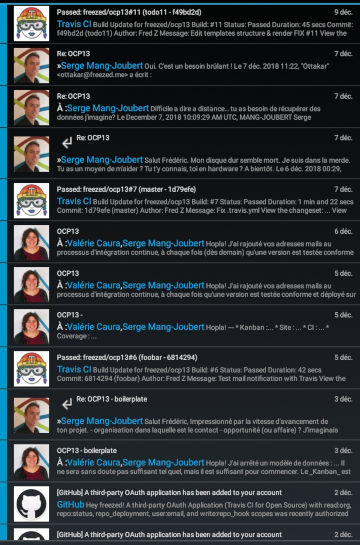
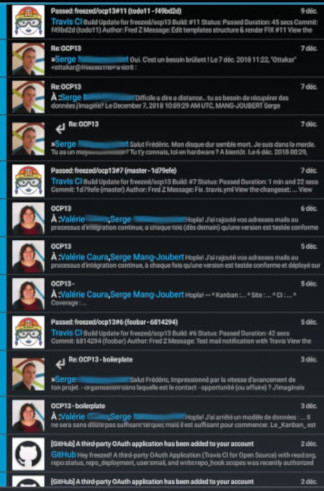
Update PITCHME.md

diff --git a/doc/PITCHME.md b/doc/PITCHME.md
@@ -2,9 +2,17 @@
 
 _ 20 décembre 2018 _
 
-![](/doc/img/django.png)
-![](/doc/img/py.png)
-
+![](/doc/img/coveralls-r.png)
+![](/doc/img/django-r.png)
+![](/doc/img/github-r.png)
+![](/doc/img/heroku-r.png)
+![](/doc/img/knacss-r.png)
+![](/doc/img/openclassrooms-r.png)
+![](/doc/img/papertrail-r.png)
+![](/doc/img/py-r.png)
+![](/doc/img/sentry-r.png)
+![](/doc/img/stackoverflow-r.png)
+![](/doc/img/travisf-r.png)
 
 ---
 
@@ -25,15 +33,15 @@ _ 20 décembre 2018 _
 ## Des clients !
 
 ![](/doc/img/lacordee.png)
-
-![](/doc/img/client.png)
+![](/doc/img/clients.png)
 
 +++
 
 ## Des besoins !
 
 @ul
-*
+* Carnet d'adresse et …
+* y associer des notes, rappels, listes, _foobar_
 @ulend
 
 ---
@@ -42,15 +50,23 @@ _ 20 décembre 2018 _
 
 +++
 
-Agile !
+### Agile !
+
+@ul
+* Comme _tout le monde_ … ?
+@ulend
 
 +++
 
-## Décomposition fonctionnelle
+### Décomposition fonctionnelle
+
+![](/doc/img/decofon.png)
 
 +++
 
-## Modélisation des données
+### Modélisation des données
+
++++
 
 ![PDM image](/doc/data_model/physical_data_model.png)
 
@@ -60,21 +76,22 @@ Agile !
 
 +++
 
-## Plannification
+### Plannification !
+
+![](/doc/img/kanban.png)
 
 +++
 
-## Livraison/Déploiement continue
+### Livraison/Déploiement continue
 
-![Staging CI/CD flow - image](/doc/img/travis.png)
+![Staging CI/CD flow - image](/doc/img/travis.jpg)
 
 +++
 
-## Une communication brève et régulière
+### Des échanges brefs mais réguliers
 
-![](/doc/img/mail-list.png)
-
-![](/doc/img/mail-details.png)
+![](/doc/img/mail-list.jpg)
+![](/doc/img/mail-detail.jpg)
 
 +++
 
@@ -91,53 +108,127 @@ Agile !
 
 ![](/doc/img/git.png)
 
-
 +++
 
-## Chaînage d'URLs
+#### Des tests, des tests : plein de tests!
 
-+++
-
-
-## Class Based View
-
-+++
-
-## Des tests, plein de tests !
+Objectif 100%
 
 ![](/doc/img/coveralls.png)
+
++++
+
+`from pytest import parametrize`
+
+![](/doc/img/log-test1.png)
+
++++
+
+`from pytest import fixture`
+
+![](/doc/img/log-test2.png)
+
++++
+
+`pytest.do_magik()`
+
+![](/doc/img/log-test3.png)
+
++++
+
+### Chaînage d'URLs
+
+![](/doc/img/chained-app-url.png)
+
+
++++
+
+### Class Based View
+
+@ul
+- … ou la puissance des objets
+@ulend
+
++++
+
+_Vues de base_ : (presque) rien à faire !
+
+![](/doc/img/core-urls.png)
+
++++
+
+_Vues génériques_ : déballez, utilisez !
+
+![](/doc/img/lead-view.png)
+
++++
+
+_Vues génériques_ : les joies de la surcharge 1/3
+
+![](/doc/img/log-view1.png)
+
++++
+
+_Vues génériques_ : les joies de la surcharge 2/3
+
+![](/doc/img/log-view2.png)
+
++++
+
+_Vues génériques_ :les joies de la surcharge 3/3
+
+![](/doc/img/log-view3.png)
+
++++
+
+_En `Form`_ ?
+
+![](/doc/img/entryform1.png)
+
++++
+
+_En `Form`_ ?
+
+![](/doc/img/entryform2.png)
 
 ---
 
 # Les temps forts
 
-+++
-
-## Le découpage du modèle de donnée en application Django
-
-+++
-
-## Un _vrai_ projet qui démarre en _TDD_
-
-+++
-
-## La couverture de test à 100%
+@ul
+* Le découpage du modèle de donnée en application Django
+* Un _vrai_ projet qui démarre en _TDD_
+* La couverture de test à 100%
+@ulend
 
 ---
 
-# `from __future__ import ideas`
+### `from __future__ import ideas`
 
 @ul
 * Création de l'app `tag`
 * Import des contacts
 * Connection `webDAV`
 * Refactoriser les tests (fixtures _Django_, …)
-* … et peut être un peut de _front_ (-;
+* … et peut être un peut de _front_
 @ulend
 
 
 ---
 
-### Merci !
+### C'est fini : merci !
 
-# (-;
+
+` \m/_(^_^)_\m/ `
+
+![](/doc/img/coveralls-r.png)
+![](/doc/img/django-r.png)
+![](/doc/img/github-r.png)
+![](/doc/img/heroku-r.png)
+![](/doc/img/knacss-r.png)
+![](/doc/img/openclassrooms-r.png)
+![](/doc/img/papertrail-r.png)
+![](/doc/img/py-r.png)
+![](/doc/img/sentry-r.png)
+![](/doc/img/stackoverflow-r.png)
+![](/doc/img/travisf-r.png)
